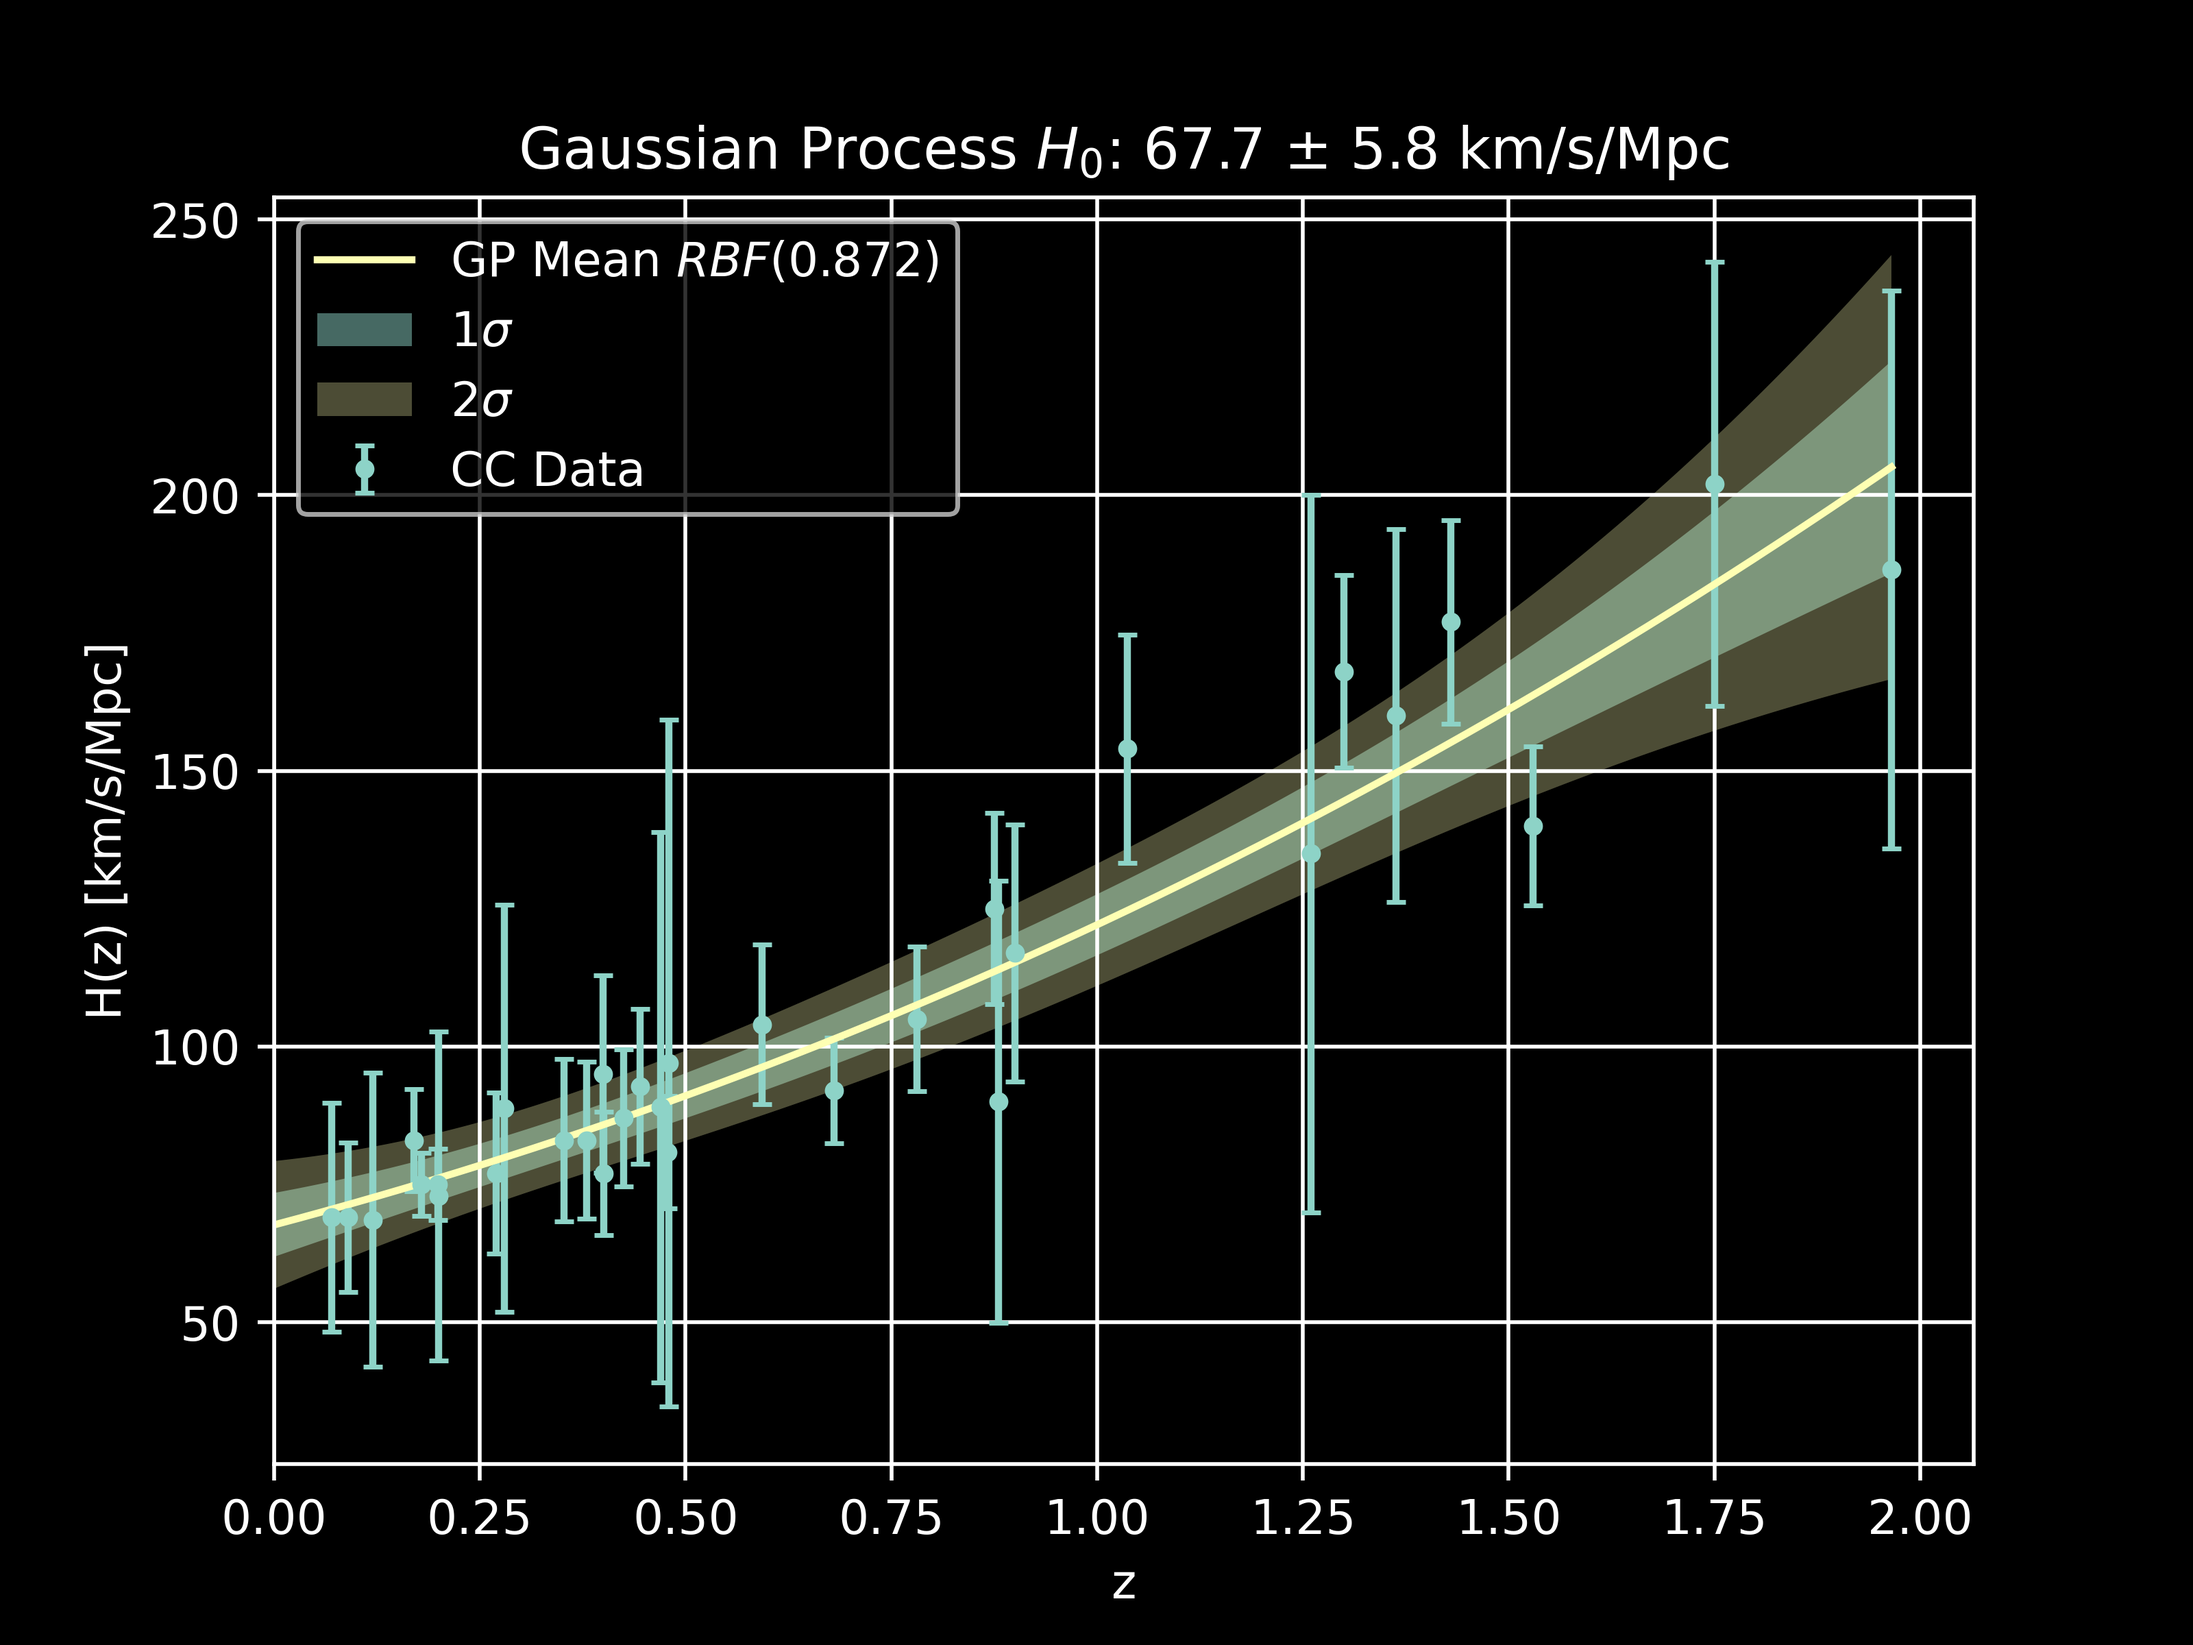
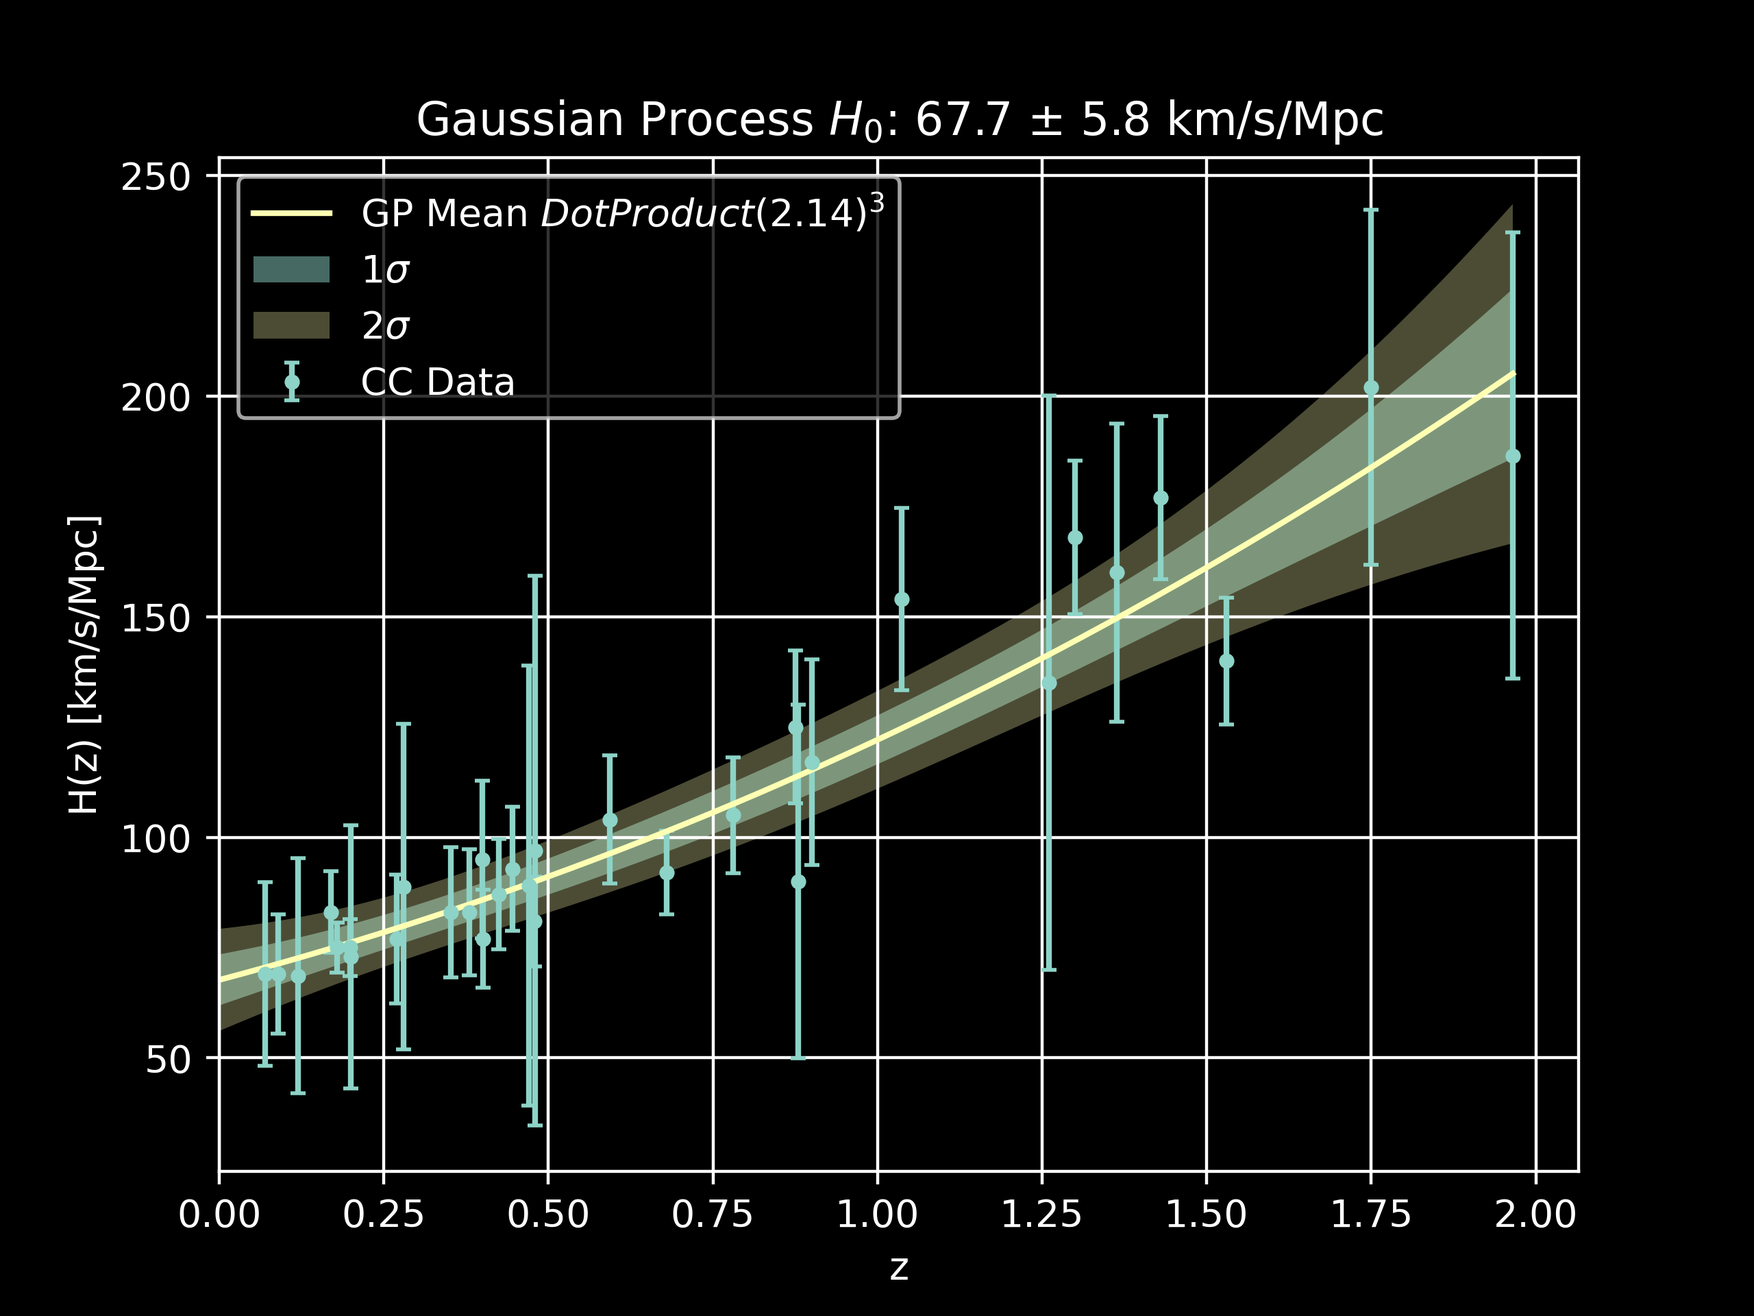
cc

diff --git a/cosmic_chronometers/cc_gp.py b/cosmic_chronometers/cc_gp.py
@@ -38,7 +38,7 @@ print("cov mat condition number", np.linalg.cond(cov_matrix)) # 232.6
 
 plt.style.use('dark_background')
 plt.errorbar(z_values, H_values, yerr=dH_values, fmt='.', label='CC Data', capsize=2)
-plt.plot(z_pred, H_pred, label='GP Mean $RBF(0.872)$')
+plt.plot(z_pred, H_pred, label='GP Mean $DotProduct(2.14)^3$')
 plt.fill_between(z_pred.ravel(), H_pred - sigma, H_pred + sigma, alpha=0.5, label=r'$1\sigma$')
 plt.fill_between(z_pred.ravel(), H_pred - 2 * sigma, H_pred + 2 * sigma, alpha=0.3, label=r'$2\sigma$')
 plt.xlabel('z')
@@ -47,13 +47,13 @@ plt.ylabel('H(z) [km/s/Mpc]')
 plt.title(f'Gaussian Process $H_0$: {H_pred[0]:.1f} ± {sigma[0]:.1f} km/s/Mpc')
 plt.legend()
 plt.grid(True)
-plt.savefig('cosmic_chronometers/cc_gp.png', dpi=500)
+plt.savefig('cosmic_chronometers/cc_gp.png', dpi=400)
 plt.close()
 
 plt.imshow(cov_pred, cmap='hot', interpolation='none')
 plt.colorbar()
 plt.title('Covariance Matrix')
-plt.savefig('cosmic_chronometers/cc_gp_cov_matrix.png', dpi=500)
+plt.savefig('cosmic_chronometers/cc_gp_cov_matrix.png', dpi=400)
 plt.close()
 
 # Likelihood function
@@ -81,5 +81,5 @@ plt.yscale("log")
 plt.xlabel("$\sigma_0$")
 plt.ylabel("offset")
 plt.title("Negative log-marginal-likelihood")
-plt.savefig('cosmic_chronometers/cc_gp_likelihood.png', dpi=500)
+plt.savefig('cosmic_chronometers/cc_gp_likelihood.png', dpi=400)
 plt.close()
